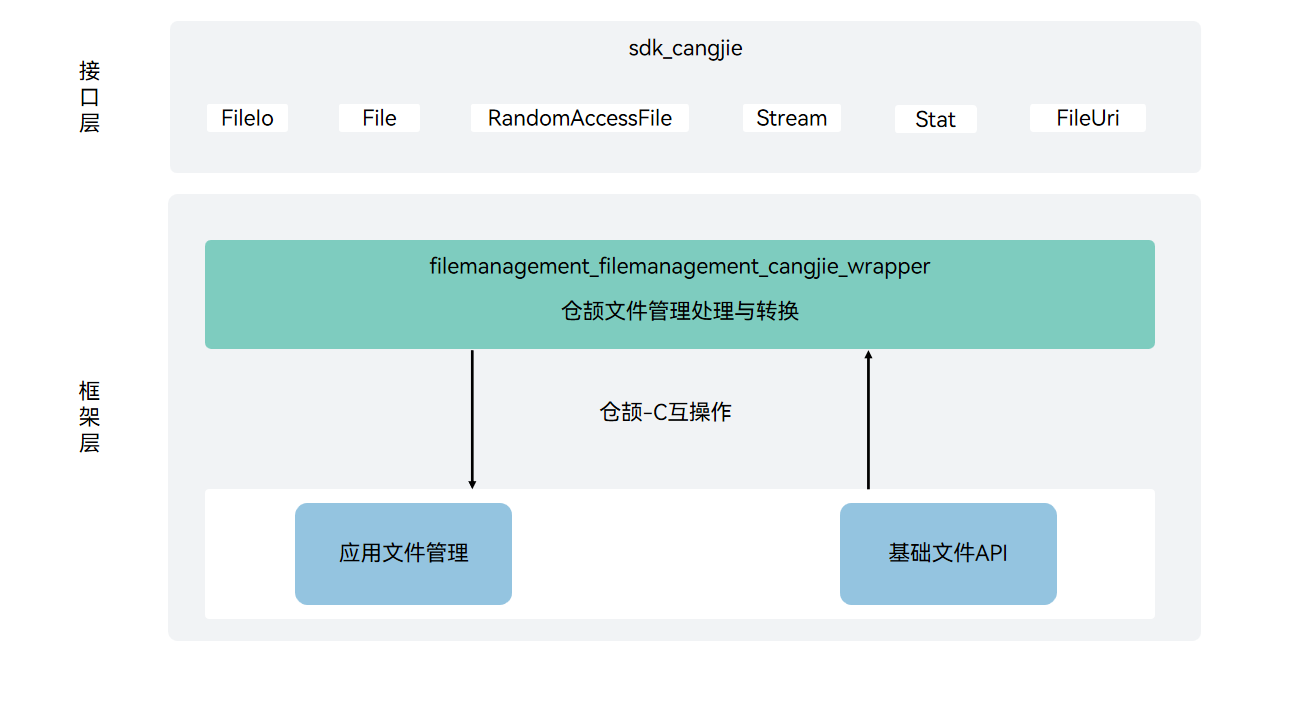
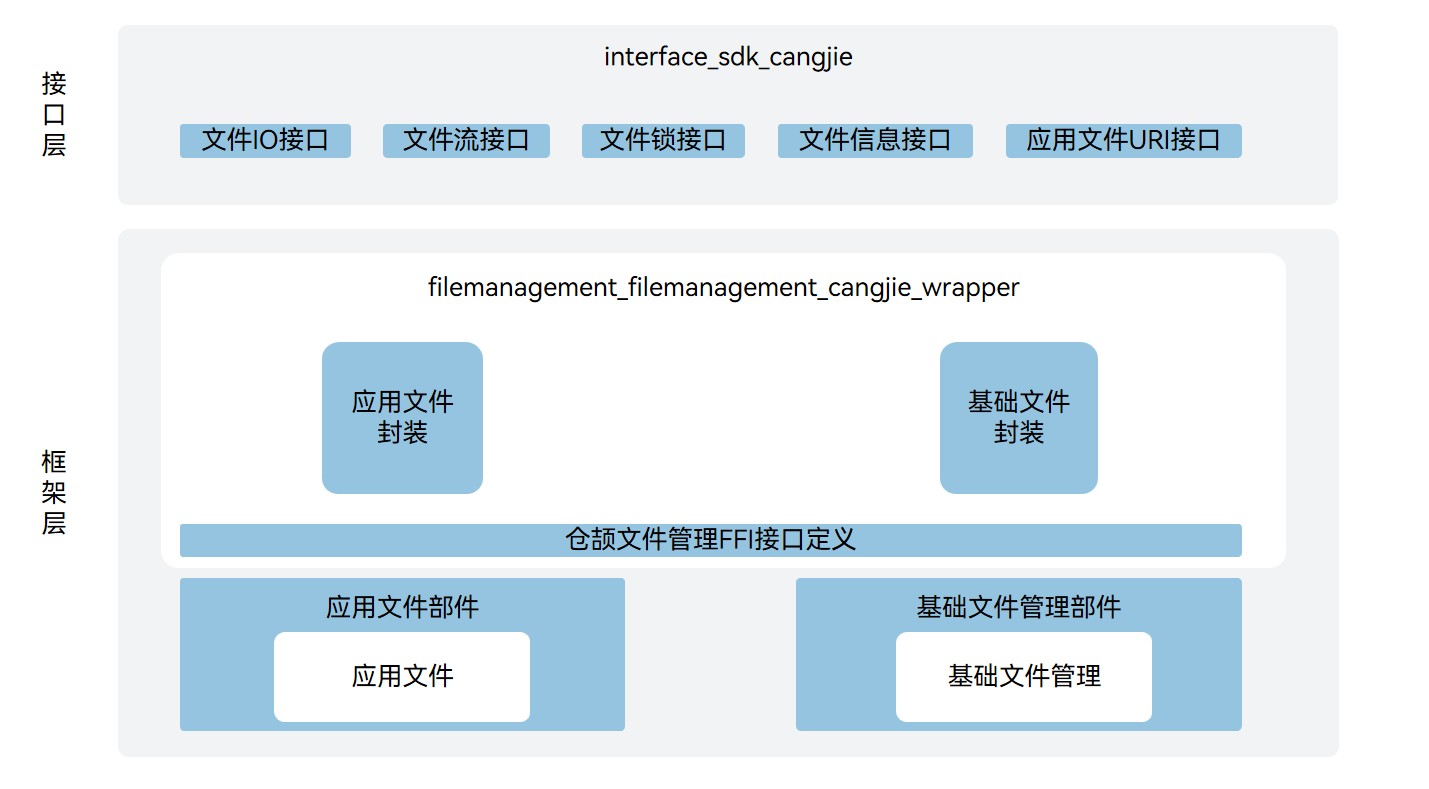
fix README

diff --git a/README_zh.md b/README_zh.md
@@ -2,95 +2,71 @@
 
 ## 简介
 
-文件管理仓颉接口是在 OpenHarmony 上基于文件管理子系统能力之上封装的仓颉API。文件管理子系统为OpenHarmony提供一套完整的文件数据管理解决方案，提供安全、易用的文件访问能力和完善的文件存储管理能力。
+文件管理仓颉接口是在OpenHarmony上基于文件管理子系统能力之上封装的仓颉API。文件管理子系统为OpenHarmony提供一套完整的文件数据管理解决方案，提供安全、易用的文件访问能力和完善的文件存储管理能力。当前开放的文件管理仓颉接口仅支持standard设备。
 
 ## 系统架构
 
 **图 1**  文件管理仓颉架构图
-![](figures/filemanagement_cangjie_wrapper_architecture_zh.png "文件管理仓颉架构图")
+![文件管理仓颉架构图](figures/filemanagement_cangjie_wrapper_architecture_zh.png)
+
+- 文件IO接口：提供文件创建、访问和随机读写接口；
+- 文件流接口：提供流式读写文件的能力接口；
+- 文件锁接口：提供文件阻塞式、非阻塞式施加共享锁或独占锁，及解锁的能力接口；
+- 文件信息接口：提供包括文件大小、访问权限、修改时间在内的基本统计信息接口；
+- 应用文件URI接口：提供获取应用自己的URI接口；
+- 仓颉文件管理FFI接口定义：负责定义C互操作仓颉接口，用于实现仓颉文件管理能力；
+- 应用文件：为应用提供安全的沙箱隔离技术，保证应用数据安全基础上权限最小化；
+- 基础文件：提供创建、修改及访问文件的能力。
 
 ## 目录
 
 ```
 foundation/filemanagement/filemanagement_cangjie_wrapper
-├── ohos             # 仓颉文件管理接口实现
-├── kit              # 仓颉kit化代码
-├── figures          # 存放readme中的架构图
+├── figures               # 存放README中的架构图
+├── kit                   # 仓颉文件管理kit化代码
+│   └── CoreFileKit       # 仓颉CoreFileKit实现
+└── ohos                  # 仓颉文件管理接口实现
+    └── file              # 仓颉文件接口实现
 ```
 
 ## 约束
 
-当前开放的文件管理仓颉接口仅支持standard设备。
+本地IO接口
 
-本地 IO 接口
-
--   目前仅支持 UTF-8/16 编码；
--   目前 URI 暂不支持外部存储目录。
+-   目前仅支持UTF-8/16编码；
+-   目前URI暂不支持外部存储目录。
 
 ## 使用说明
 
-### 接口说明
+当前文件管理仓颉接口提供了以下功能：
 
-当前文件管理按照功能可瓜分为如下几种类型：
+- 基础文件访问能力；
+- 文件信息获取能力；
 
-**表 1** 接口类型表
+与ArkTS相比，暂不支持以下功能：
 
-| 接口类型         | 接口用途                         | 相关模块            | 接口示例（类名.方法名）         |
-| ------------ | ---------------------------------- | ------------------- | -------------------------- |
-| 基本文件接口 | 需要用户提供沙箱路径或文件描述符（fd），提供创建、修改及访问文件的能力 | @ohos.file.fs | FileIo.access<br/>FileIo.open<br/>FileIo.moveFile |
-| 获取文件应用URI | 需要用户提供沙箱路径，提供应用自己的URI | @ohos.file.fileuri | getUriFromPath |
-| 获取目录项 | 需要用户提供沙箱路径，提供读取目录及过滤目录文件的能力 | @ohos.file.fs | FileIo.listFile |
-| 获取文件信息接口 | 需要用户提供沙箱路径，提供包括文件大小、访问权限、修改时间在内的基本统计信息 | @ohos.file.fs | Stat.stat |
-| 流接口 | 需要用户提供沙箱路径或文件描述符，提供流式读写文件的能力 | @ohos.file.fs | FileIo.createStream<br/>FileIo.fdopenStream |
-| 文件锁接口 | 提供文件阻塞式、非阻塞式施加共享锁或独占锁，及解锁的能力 | @ohos.file.fs | File.tryLock<br/>File.unlock |
-
-open接口可以指定mode参数以打开相应功能权限，说明如下：
-
-**表 2** OpenMode类型表
-
-| 名称       | 类型   | 值     | 说明         |
-| ---------- | ----- | ------ | -------------------------- |
-| READ_ONLY  | Int64 | 0o0    | 只读打开。 |
-| WRITE_ONLY | Int64 | 0o1    | 只写打开。 |
-| READ_WRITE | Int64 | 0o2    | 读写打开。 |
-| CREATE     | Int64 | 0o100  | 若文件不存在，则创建文件。 |
-| TRUNC      | Int64 | 0o1000 | 如果文件存在且以只写或读写的方式打开文件，则将其长度裁剪为零。 |
-| APPEND     | Int64 | 0o2000 | 以追加方式打开，后续写将追加到文件末尾。 |
-| NONBLOCK   | Int64 | 0o4000 | 如果path指向FIFO、块特殊文件或字符特殊文件，则本次打开及后续 IO 进行非阻塞操作。 |
-| DIR        | Int64 | 0o200000  | 如果path不指向目录，则出错。 |
-| NOFOLLOW   | Int64 | 0o400000  | 如果path指向符号链接，则出错。 |
-| SYNC       | Int64 | 0o4010000 | 以同步IO的方式打开文件。 |
-
-文件过滤配置项类型，支持listFile接口使用，说明如下：
-
-**表 3**  Filter
-
-| 名称        | 类型             | 说明                               |
-| ----------- | --------------- | ---------------------------------- |
-| suffix      | Array\<String> | 文件后缀名完全匹配，各个关键词OR关系。 |
-| displayName | Array\<String> | 文件名模糊匹配，各个关键词OR关系。    |
-| mimeType    | Array\<String> | mime类型完全匹配，各个关键词OR关系。  |
-| fileSizeOver       | ?Int64  | 文件大小匹配，大于等于指定大小的文件。 |
-| lastModifiedAfter  | ?Float64 | 文件最近修改时间匹配，在指定时间点及之后的文件。 |
-| excludeMedia       | Bool    | 是否排除Media中已有的文件。 |
+- 存储管理功能；
+- 公共文件功能；
+- 分布式能力；
+- 应用文件分享能力。
 
 文件管理相关API请参见：
 
 -   [ohos.file.fs（文件管理）](https://gitcode.com/openharmony-sig/arkcompiler_cangjie_ark_interop/blob/master/doc/API_Reference/source_zh_cn/apis/CoreFileKit/cj-apis-file_fs.md)
 -   [ohos.file.fileuri](https://gitcode.com/openharmony-sig/arkcompiler_cangjie_ark_interop/blob/master/doc/API_Reference/source_zh_cn/apis/CoreFileKit/cj-apis-file_fileuri.md)
 
-相关指导请参见[Core File Kit简介](https://gitcode.com/openharmony-sig/arkcompiler_cangjie_ark_interop/blob/master/doc/Dev_Guide/source_zh_cn/file-management/cj-core-file-kit-intro.md).
+相关指导请参见[Core File Kit简介](https://gitcode.com/openharmony-sig/arkcompiler_cangjie_ark_interop/blob/master/doc/Dev_Guide/source_zh_cn/file-management/cj-core-file-kit-intro.md)。
 
 ## 参与贡献
 
-欢迎广大开发者贡献代码、文档等，具体的贡献流程和方式请参见[参与贡献](https://gitcode.com/openharmony/docs/blob/master/zh-cn/contribute/%E5%8F%82%E4%B8%8E%E8%B4%A1%E7%8C%AE.md)
+欢迎广大开发者贡献代码、文档等，具体的贡献流程和方式请参见[参与贡献](https://gitcode.com/openharmony/docs/blob/master/zh-cn/contribute/%E5%8F%82%E4%B8%8E%E8%B4%A1%E7%8C%AE.md)。
 
 ## 相关仓
 
-**应用文件管理**
-
 [filemanagement_app_file_service](https://gitee.com/openharmony/filemanagement_app_file_service/blob/master/README_ZH.md)
 
-**文件接口**
-
 [filemanagement_file_api](https://gitee.com/openharmony/filemanagement_file_api/blob/master/README_zh.md)
+
+[cangjie_ark_interop](https://gitcode.com/openharmony-sig/arkcompiler_cangjie_ark_interop/blob/master/README_zh.md)
+
+[hiviewdfx_cangjie_wrapper](https://gitcode.com/openharmony-sig/hiviewdfx_hiviewdfx_cangjie_wrapper/blob/master/README_zh.md)

diff --git a/README.md b/README.md
@@ -2,25 +2,34 @@
 
 ## Introduction
 
-The filemanagement_cangjie_wrapper is a Cangjie API encapsulated on OpenHarmony based on the capabilities of the file management Subsystem. The file management subsystem provides a complete file management solution for OpenHarmony. It provides secure and easy-to-use file access and comprehensive file management capabilities.
+The filemanagement_cangjie_wrapper is a Cangjie API encapsulated on OpenHarmony based on the capabilities of the file management Subsystem. The file management subsystem provides a complete file management solution for OpenHarmony. It provides secure and easy-to-use file access and comprehensive file management capabilities. The currently open Graphic Cangjie api only supports standard devices.
 
 ## System Architecture
 
 **Figure 1** Architecture of the file management subsystem
-![](figures/filemanagement_cangjie_wrapper_architecture_en.png "filemanagement_cangjie_wrapper architecture")
+![filemanagement_cangjie_wrapper architecture](figures/filemanagement_cangjie_wrapper_architecture_en.png)
+
+- 文件IO接口：provide file creation, access and random read-write interface;
+- 文件流接口：provide the capability interface for reading and writing files in a streaming manner;
+- 文件锁接口：provide file blocking and non-blocking interfaces for applying shared lock or exclusive lock and unlocking;
+- 文件信息接口：provide basic statistical information interface including file size, access permission and modification time;
+- 应用文件URI接口：provides the URI interface for obtaining the application itself;
+- 仓颉文件管理FFI接口定义：responsible for defining the C interoperable Changjie interface, which is used to implement the Changjie file management capability;
+- 应用文件：provide secure sandbox quarantine technology for applications to ensure minimized permissions on the basis of application data security;
+- 基础文件：Provides the ability to create, modify, and access files.
 
 ## Directory Structure
 
 ```
 foundation/filemanagement/filemanagement_cangjie_wrapper
-├── ohos             # Cangjie File Management code
-├── kit              # Cangjie kit code
-├── figures          # architecture pictures
+├── figures               # architecture pictures
+├── kit                   # Cangjie File Management kit code
+│   └── CoreFileKit       # Cangjie CoreFileKit code implementation
+└── ohos                  # Cangjie File Management code
+    └── file              # Cangjie File code implementation
 ```
 
 ## Constraints
-
-The currently open Graphic Cangjie api only supports standard devices.
 
 Constraints on local I/O APIs:
 
@@ -29,52 +38,17 @@ Constraints on local I/O APIs:
 
 ## Usage
 
-### Available APIs
+The current distributed soft bus Cangjie interface provides the following functions:
 
-Currently, the File Api provides APIs for accessing local files and directories. The following table describes the API types classified by function.
+- basic file access capability;
+- document information acquisition capability;
 
-**Table 1** API types
+Compared with ArkTS, the following functions are not supported at the moment:
 
-Currently, the File Api provides APIs for accessing local files and directories. The following table describes the API types classified by function.
-
-| API Type         | Function                         | Related Module            | Example API (Class Name.Method Name)         |
-| ------------ | ---------------------------------- | ------------------- | -------------------------- |
-| Basic file API | Creates, modifies, and accesses files, and changes file permissions based on the specified absolute paths or file descriptors. | @ohos.file.fs | FileIo.access<br/>FileIo.open<br/>FileIo.moveFile |
-| Application file URI API | Users are required to provide the sandbox path and the application's own URI | @ohos.file.fileuri | getUriFromPath |
-| Basic directory API | Reads directories and determines file types based on the specified absolute paths. | @ohos.file.fs | FileIo.listFile |
-| Basic statistical API | Collects basic statistics including the file size, access permission, and modification time based on the specified absolute paths. | @ohos.file.fs | Stat.stat |
-| Streaming file API | Reads and writes data streams of files based on the specified absolute paths or file descriptors. | @ohos.file.fs | FileIo.createStream<br/>FileIo.fdopenStream |
-| File lock API | Provide the ability to apply shared or exclusive locks, as well as unlock them, in a file blocking or non blocking manner. | @ohos.file.fs | File.tryLock<br/>File.unlock |
-
-The open interface can specify the mode parameter to enable the corresponding functional permissions, as described in the following table.
-
-**Table 2** OpenMode types
-
-| Name       | Type  | Value  | Description         |
-| ---------- | ----- | ------ | ------------------- |
-| READ_ONLY  | Int64 | 0o0    | Open for read-only. |
-| WRITE_ONLY | Int64 | 0o1    | Open for writie-only. |
-| READ_WRITE | Int64 | 0o2    | Open for both reading and writing. |
-| CREATE     | Int64 | 0o100  | If the file does not exist, create the file. |
-| TRUNC      | Int64 | 0o1000 | If the file exists and is opened in write only or read-write mode, its length is cropped to zero. |
-| APPEND     | Int64 | 0o2000 | Open in append mode, and subsequent writes will be appended to the end of the file. |
-| NONBLOCK   | Int64 | 0o4000 | If the path points to a FIFO, block special file, or character special file, then this open and subsequent IO operations will be non blocking. |
-| DIR        | Int64 | 0o200000  | If the path does not point to a directory, an error occurs. |
-| NOFOLLOW   | Int64 | 0o400000  | If the path points to a symbolic link, an error occurs. |
-| SYNC       | Int64 | 0o4010000 | Open files in synchronous IO mode. |
-
-The file filtering configuration item type supports the use of the listFile interface, as described in the following table.
-
-**Table 3**  Filter
-
-| Name        | Type           | Description                        |
-| ----------- | -------------- | ---------------------------------- |
-| suffix      | Array\<String> | The file suffix matches perfectly, with OR relationships between the keywords. |
-| displayName | Array\<String> | Fuzzy matching of file names, OR relationships between various keywords.    |
-| mimeType    | Array\<String> | The mime type matches perfectly, with OR relationships between each keyword.  |
-| fileSizeOver       | ?Int64  | File size matching, files greater than or equal to the specified size. |
-| lastModifiedAfter  | ?Float64 | The latest modification time of the file matches the file at the specified time point and beyond. |
-| excludeMedia       | Bool    | Whether you want to exclude files already in the media. |
+- Storage management functions;
+- Common file function;
+- Distributed capabilities;
+- Application file sharing capabilities.
 
 For filemanagement-related APIs, please refer to :
 
@@ -89,10 +63,10 @@ Developers are welcome to contribute code, documentation, etc. For specific cont
 
 ## Repositories Involved
 
-**Application file management**
-
 [filemanagement_app_file_service](https://gitee.com/openharmony/filemanagement_app_file_service)
 
-**File management APIs**
-
 [filemanagement_file_api](https://gitee.com/openharmony/filemanagement_file_api)
+
+[cangjie_ark_interop](https://gitcode.com/openharmony-sig/arkcompiler_cangjie_ark_interop/blob/master/README.md)
+
+[hiviewdfx_cangjie_wrapper](https://gitcode.com/openharmony-sig/hiviewdfx_hiviewdfx_cangjie_wrapper/blob/master/README.md)
